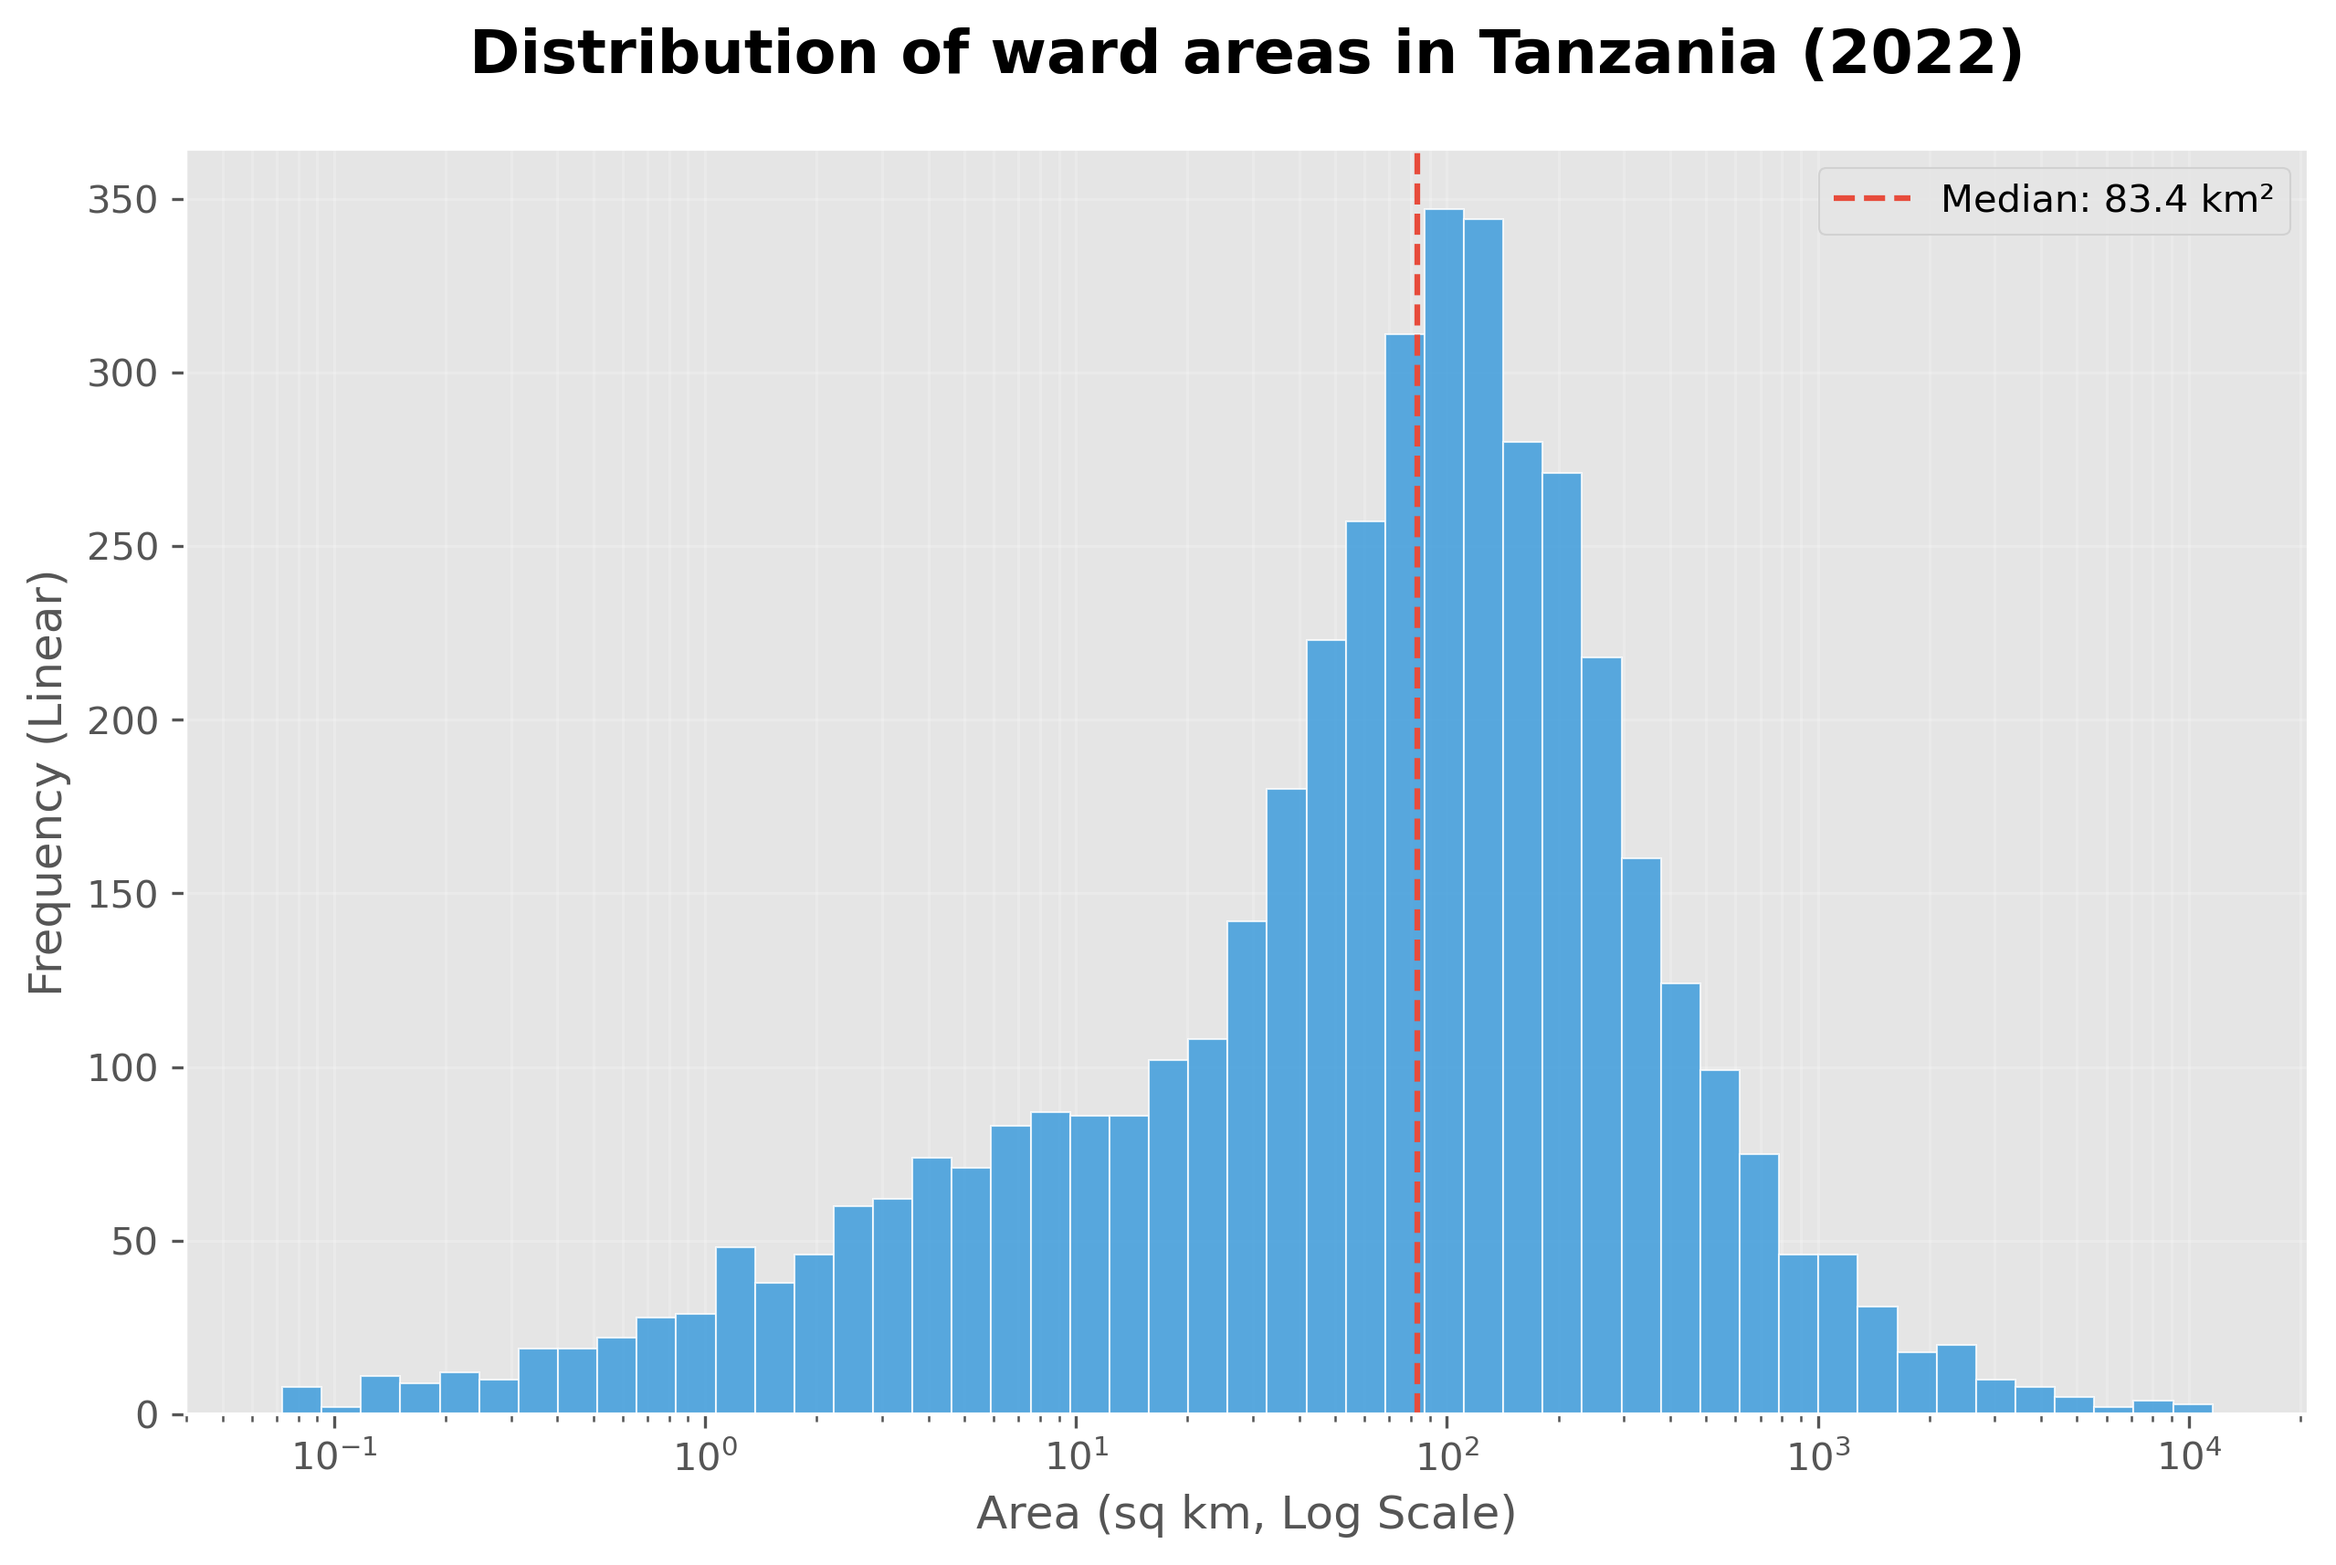
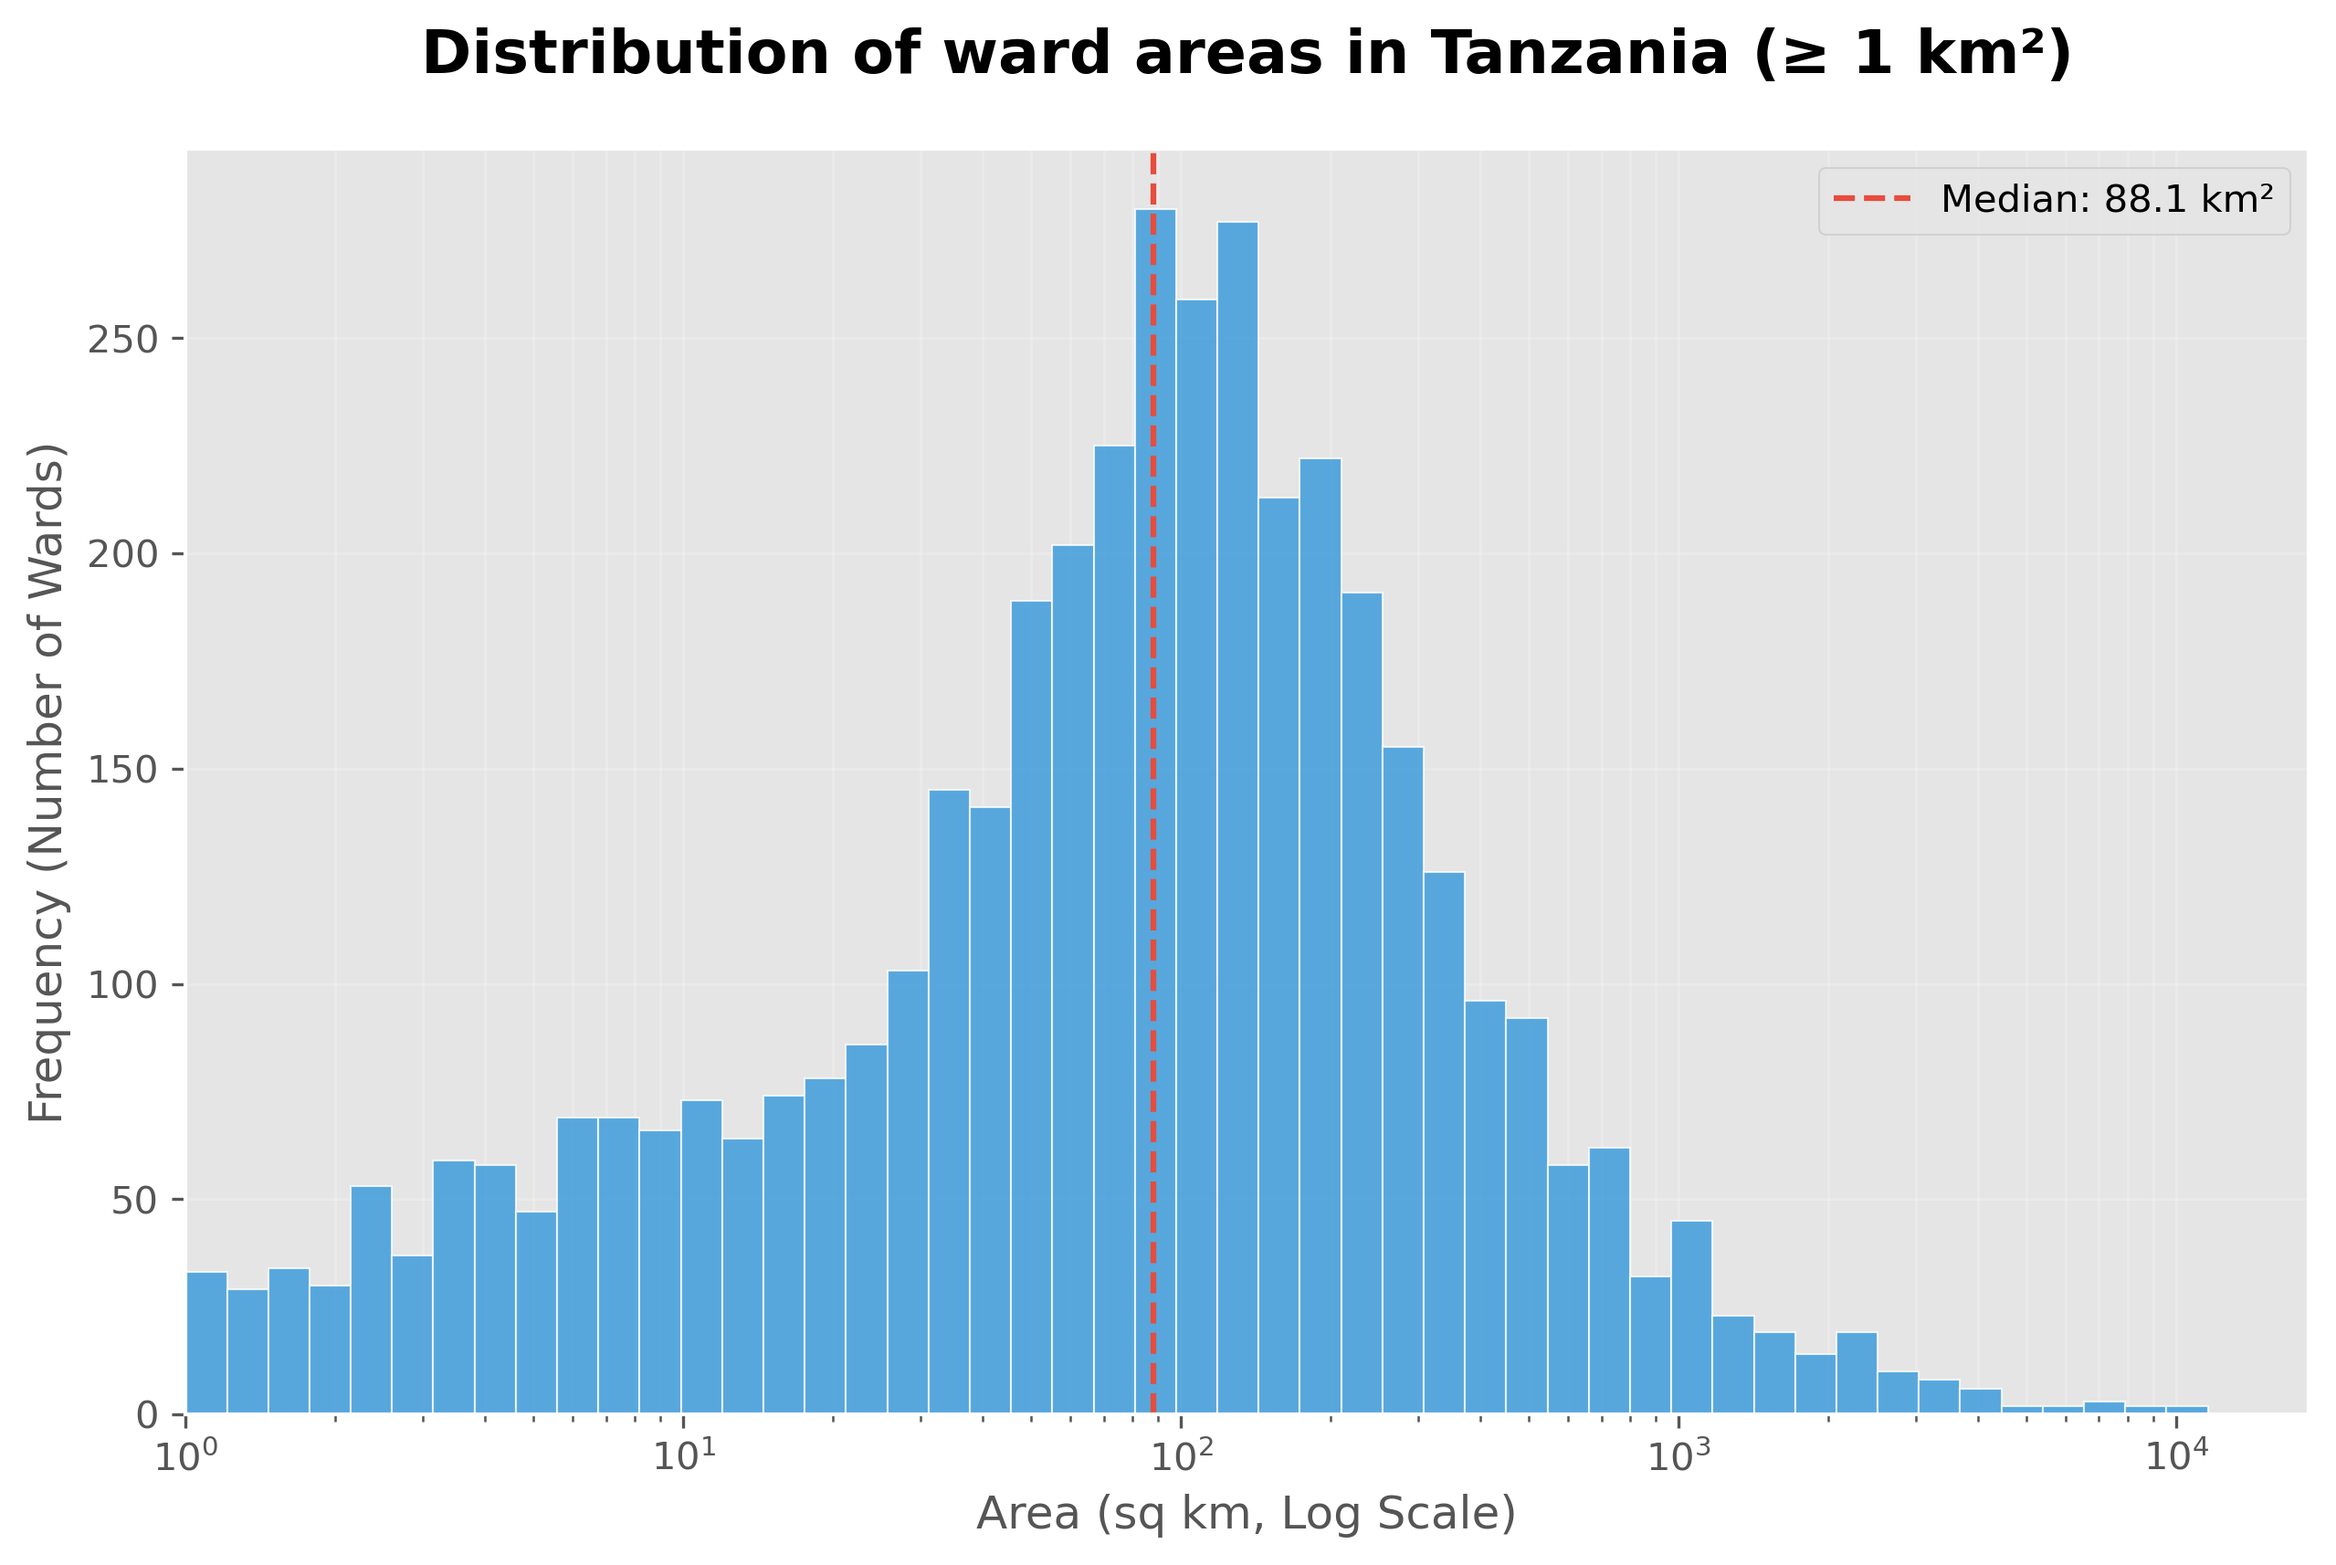
Highlight gender data and refine visualization scales (v1.4)

diff --git a/scripts/analysis.py b/scripts/analysis.py
@@ -3,6 +3,7 @@ import matplotlib.pyplot as plt
 import pandas as pd
 import numpy as np
 import os
+from matplotlib.colors import LogNorm
 
 # Set a modern style
 plt.style.use('ggplot')
@@ -14,21 +15,30 @@ def perform_analysis(gpkg_path, output_dir):
     if gdf.crs is None:
         gdf.set_crs(epsg=4326, inplace=True)
     
-    # Calculate Area using a suitable local projection
-    print("Calculating areas (UTM 37S)...")
-    gdf_projected = gdf.to_crs(epsg=32737)
-    gdf['area_sqkm'] = gdf_projected.area / 10**6
+    # Ensure area and density are present (calculated in finalize_mapping now, but let's be safe)
+    if 'area_sqkm' not in gdf.columns or 'density' not in gdf.columns:
+        print("Recalculating spatial metrics...")
+        gdf_projected = gdf.to_crs(epsg=32737)
+        gdf['area_sqkm'] = gdf_projected.area / 10**6
+        gdf['density'] = gdf['Total_Pop'] / gdf['area_sqkm']
     
-    print("Calculating population density...")
+    # Filter for plotting: Wards with population data
     gdf_pop = gdf[gdf['Total_Pop'].notnull()].copy()
-    gdf_pop['density'] = gdf_pop['Total_Pop'] / gdf_pop['area_sqkm']
     
-    # 1. Main Population Density Map (9 classes)
+    # Clip density at 1.0 for visualization (avoids near-zero values washing out colors)
+    # The user requested 'min at 1'
+    gdf_pop['viz_density'] = gdf_pop['density'].clip(lower=1.0)
+    
+    # 1. Main Population Density Map
     print("Generating main population density map...")
     fig, ax = plt.subplots(1, 1, figsize=(15, 12))
-    gdf_pop.plot(column='density', ax=ax, legend=True, 
-                scheme='quantiles', k=9, cmap='YlOrRd',
+    ax.set_facecolor('#fdfdfd') # Clean background
+    
+    # Using FisherJenks for better class distribution than pure quantiles
+    gdf_pop.plot(column='viz_density', ax=ax, legend=True, 
+                scheme='FisherJenks', k=9, cmap='YlOrRd',
                 legend_kwds={'title': "People per Sq Km", 'loc': 'lower left', 'fmt': "{:.0f}"})
+    
     ax.set_title("Tanzania 2022 Census: Population Density by Ward", fontsize=18, fontweight='bold', pad=20)
     ax.axis('off')
     plt.savefig(os.path.join(output_dir, "tza_pop_density_map.png"), dpi=300, bbox_inches='tight')
@@ -39,7 +49,7 @@ def perform_analysis(gpkg_path, output_dir):
     dar = gdf_pop[gdf_pop['reg_name'].str.contains('Dar es Salaam', case=False, na=False)].copy()
     if not dar.empty:
         fig, ax = plt.subplots(1, 1, figsize=(12, 12))
-        dar.plot(column='density', ax=ax, legend=True, scheme='quantiles', k=9, cmap='YlOrRd',
+        dar.plot(column='viz_density', ax=ax, legend=True, scheme='FisherJenks', k=9, cmap='YlOrRd',
                 legend_kwds={'title': "Density", 'loc': 'lower right', 'fmt': "{:.0f}"})
         ax.set_title("Dar es Salaam: Population Density (2022)", fontsize=16, fontweight='bold')
         ax.axis('off')
@@ -48,11 +58,11 @@ def perform_analysis(gpkg_path, output_dir):
 
     # 3. Zoom - Zanzibar (Unguja & Pemba)
     print("Generating Zanzibar zoom map...")
-    # Regions containing 'Unguja' or 'Pemba'
     znz = gdf_pop[gdf_pop['reg_name'].str.contains('Unguja|Pemba|Zanzibar', case=False, na=False)].copy()
     if not znz.empty:
         fig, ax = plt.subplots(1, 1, figsize=(12, 12))
-        znz.plot(column='density', ax=ax, legend=True, scheme='quantiles', k=9, cmap='YlOrRd',
+        # Use a more sensitive scale for Zanzibar if needed, but keeping FisherJenks for consistency
+        znz.plot(column='viz_density', ax=ax, legend=True, scheme='FisherJenks', k=9, cmap='YlOrRd',
                 legend_kwds={'title': "Density", 'loc': 'lower right', 'fmt': "{:.0f}"})
         ax.set_title("Zanzibar: Population Density (2022)", fontsize=16, fontweight='bold')
         ax.axis('off')
@@ -63,23 +73,22 @@ def perform_analysis(gpkg_path, output_dir):
     print("Generating modern ward size histogram...")
     fig, ax = plt.subplots(figsize=(10, 6))
     
-    # Filter out 0 area if any
-    areas = gdf[gdf['area_sqkm'] > 0]['area_sqkm']
+    # Filter out 0 area and apply user request: min at 1
+    areas = gdf[gdf['area_sqkm'] >= 1.0]['area_sqkm']
     
-    # Create log bins
-    log_bins = np.logspace(np.log10(areas.min()), np.log10(areas.max()), 50)
+    # Create log bins starting from 1
+    log_bins = np.logspace(np.log10(1.0), np.log10(areas.max()), 50)
     
     ax.hist(areas, bins=log_bins, color='#3498db', edgecolor='white', alpha=0.8)
     ax.set_xscale('log')
+    ax.set_xlim(left=1.0) # Explicitly set x-axis floor at 1.0
     
-    ax.set_title("Distribution of ward areas in Tanzania (2022)", fontsize=16, fontweight='bold', pad=20)
+    ax.set_title("Distribution of ward areas in Tanzania (≥ 1 km²)", fontsize=16, fontweight='bold', pad=20)
     ax.set_xlabel("Area (sq km, Log Scale)", fontsize=12)
-    ax.set_ylabel("Frequency (Linear)", fontsize=12)
+    ax.set_ylabel("Frequency (Number of Wards)", fontsize=12)
     
-    # Add a grid for readability
     ax.grid(True, which="both", ls="-", alpha=0.2)
     
-    # Add some descriptive text
     median_val = areas.median()
     ax.axvline(median_val, color='#e74c3c', linestyle='--', label=f'Median: {median_val:.1f} km²')
     ax.legend()
@@ -110,7 +119,6 @@ def perform_analysis(gpkg_path, output_dir):
     print(f"Stats updated at {stats_path}")
 
 if __name__ == "__main__":
-    # Internal paths relative to project root
     SCRIPT_DIR = os.path.dirname(os.path.abspath(__file__))
     ROOT_DIR = os.path.dirname(SCRIPT_DIR)
     

diff --git a/README.md b/README.md
@@ -86,7 +86,8 @@ Detailed views of high-density areas:
 ## 5. Final Data Product & Usage
 
 *   **File**: `data/processed/TZA_2022_Census_Final_Mapped.gpkg` (GeoPackage)
-*   **Attributes**: Original NBS boundary fields + `Total_Pop`, `Male_Pop`, `Female_Pop`, `area_sqkm`, `density`.
+*   **Attributes**: Original NBS boundary fields + **Total_Pop**, **Male_Pop**, **Female_Pop**, `area_sqkm`, `density`.
+*   **Gender Disaggregation**: The dataset includes full male and female population counts for every ward/shehia, enabling sex-ratio analysis and gender-focused spatial planning.
 
 ### How to Reproduce
 
